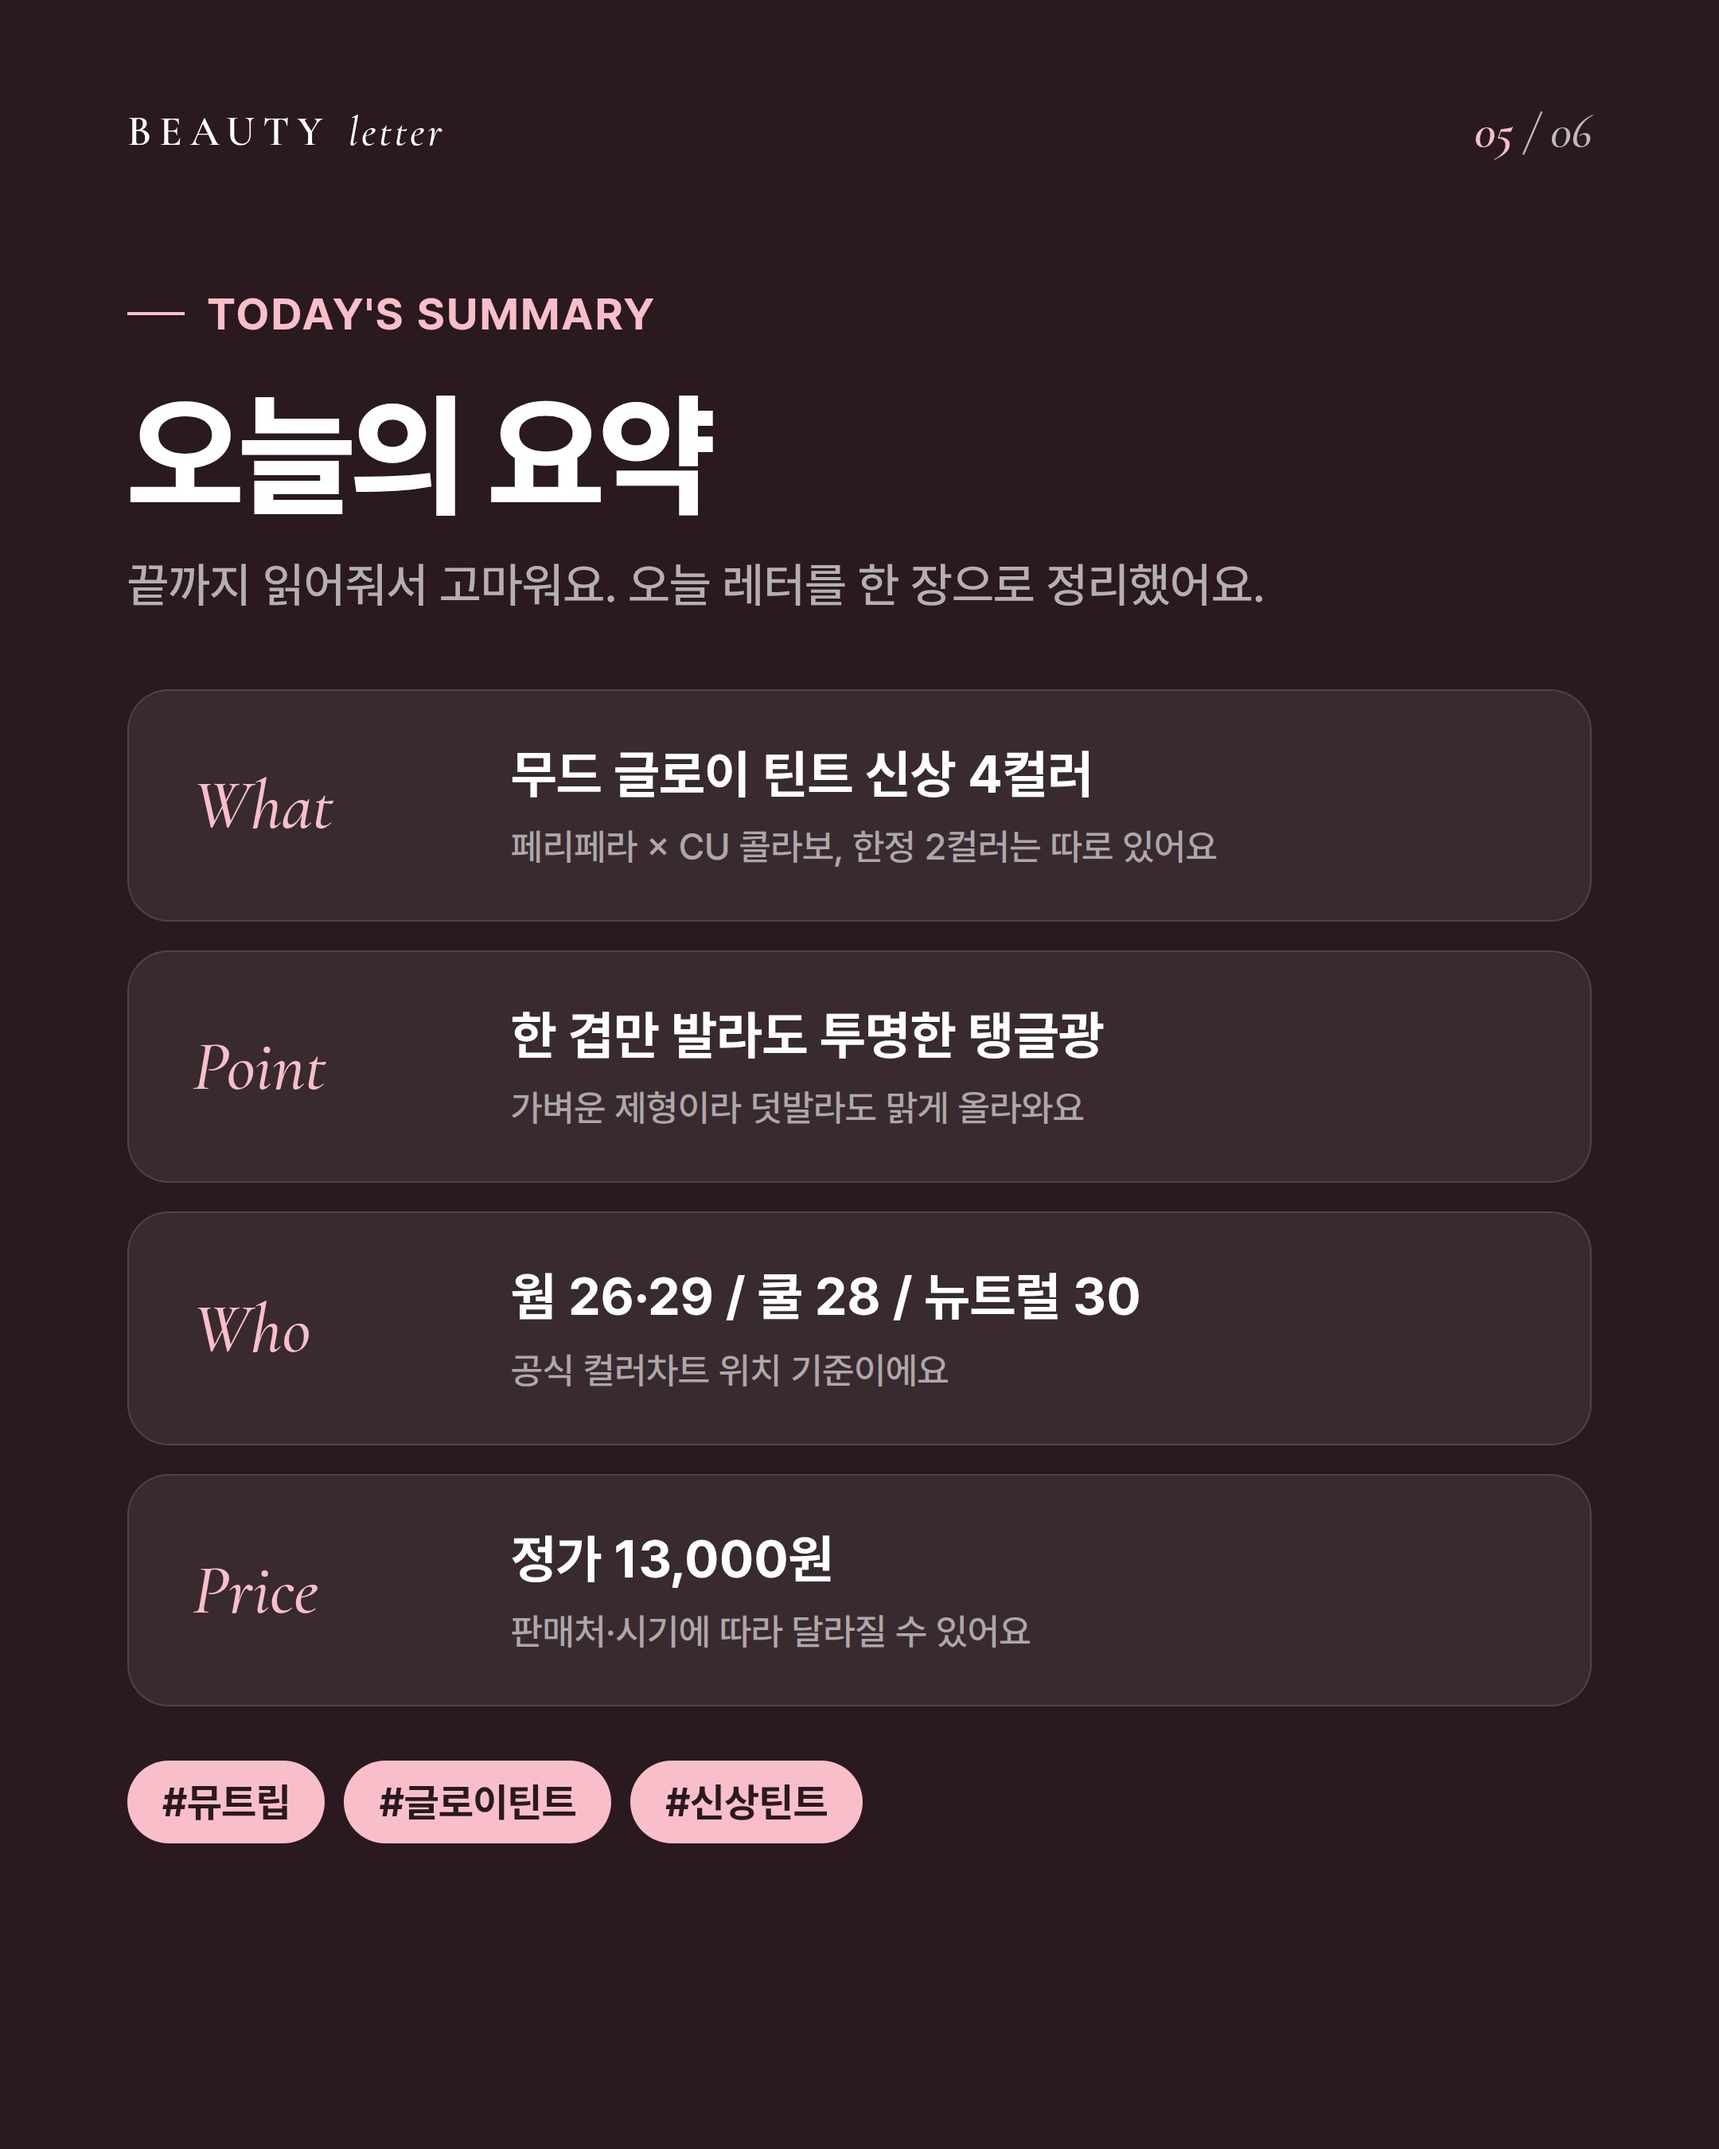
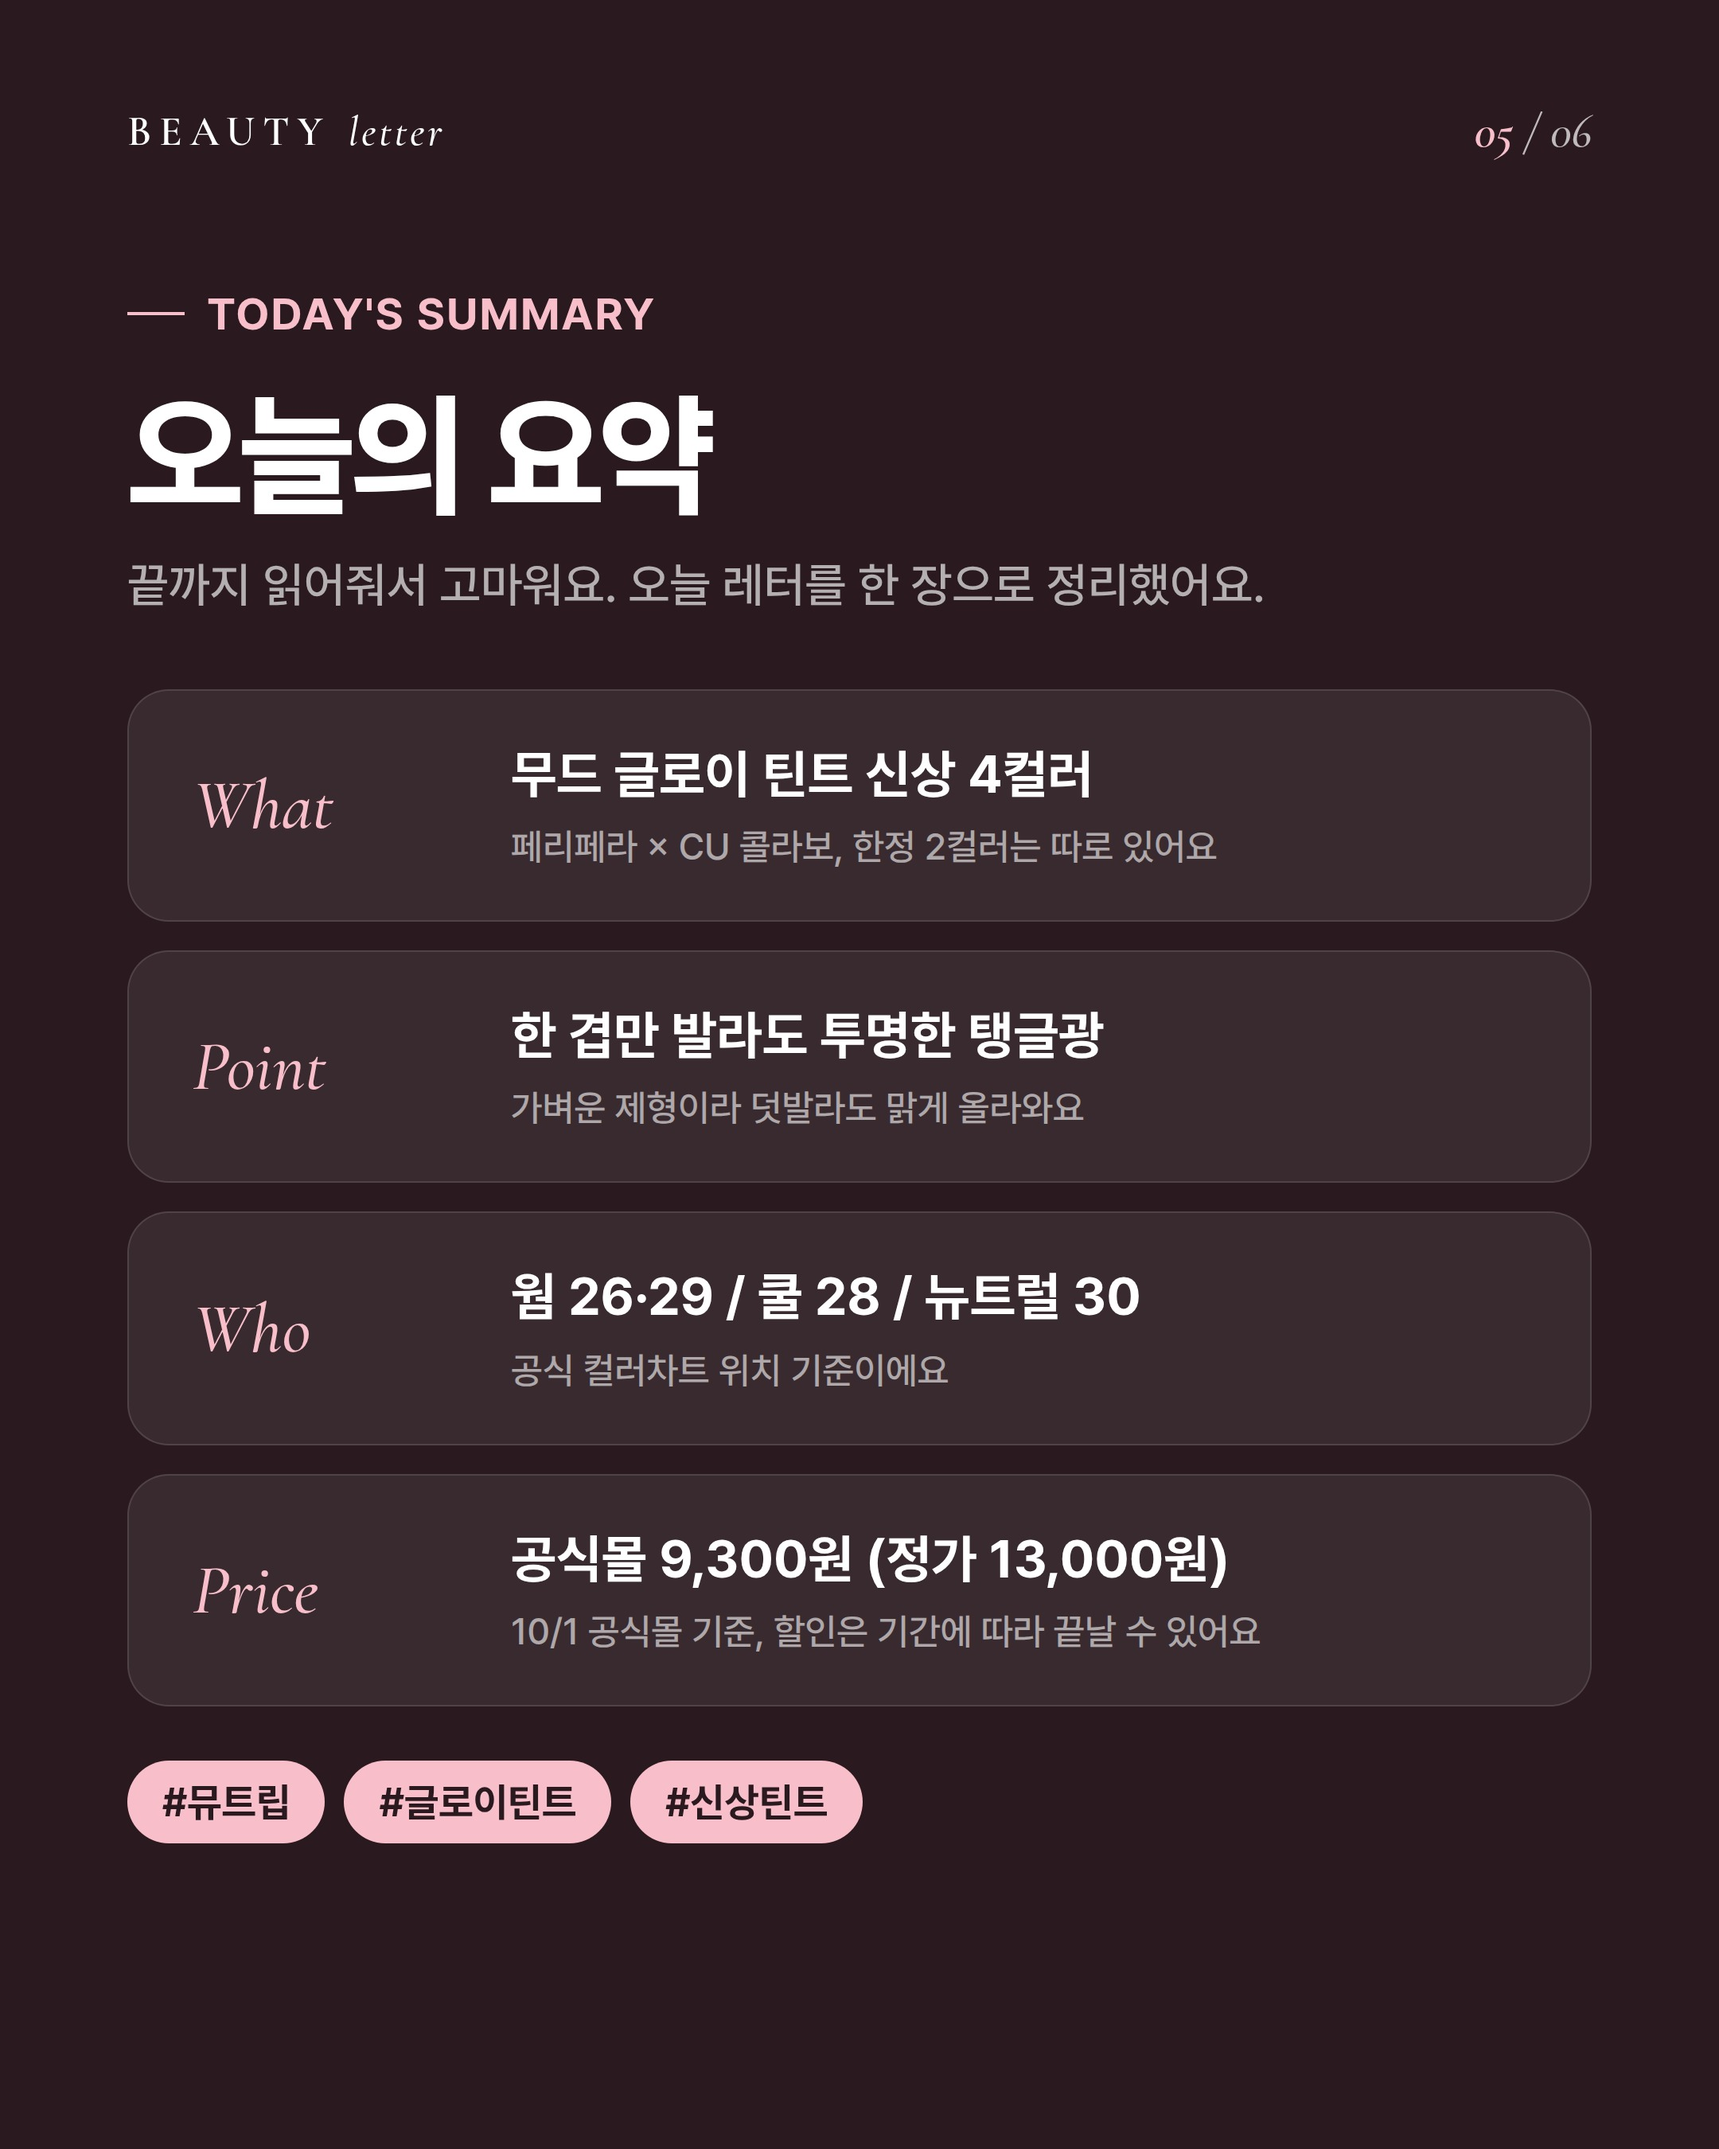
뷰티레터 틴트: 공식몰 할인가(9,300원, 10/1 기준) 표기 추가
Claude-Session: https://claude.ai/code/session_01M29FXMb16fvzM5BCrcufte

Changed region(s): [[0.2792, 0.7156, 0.7444, 0.7778]]

diff --git a/design/beauty_news/samples/2026-10_peripera_mood_glowy/slides.html b/design/beauty_news/samples/2026-10_peripera_mood_glowy/slides.html
@@ -63,7 +63,7 @@
     <div class="swatch"><div class="chip"><img src="img/lip_30.jpg" alt="" /></div><div class="no">30</div><div class="ko">드립 로즈</div><div class="desc">Drip rose</div></div>
   </div>
   <div class="spec-table">
-    <div class="spec-row"><span class="k rose">가격</span><span class="price">13,000원</span><span style="color:var(--mauve);font-size:24px">정가 기준</span></div>
+    <div class="spec-row"><span class="k rose">가격</span><span class="price">9,300원</span><span style="color:var(--mauve);font-size:24px;text-decoration:line-through">13,000원</span><span style="color:var(--mauve);font-size:22px">공식몰 28% 할인 (10/1 기준)</span></div>
     <div class="spec-row"><span class="k">컬러</span><span><b>신규 4종</b> + 한정 2종 (-01, -02)</span></div>
     <div class="spec-row"><span class="k">추천</span><span>차분한 <b>뮤트</b>는 26·28·29, <b>로지</b> 무드는 30</span></div>
   </div>
@@ -117,7 +117,7 @@
     <div class="row"><div class="q">What</div><div class="a">무드 글로이 틴트 신상 4컬러<small>페리페라 × CU 콜라보, 한정 2컬러는 따로 있어요</small></div></div>
     <div class="row"><div class="q">Point</div><div class="a">한 겹만 발라도 투명한 탱글광<small>가벼운 제형이라 덧발라도 맑게 올라와요</small></div></div>
     <div class="row"><div class="q">Who</div><div class="a">웜 26·29 / 쿨 28 / 뉴트럴 30<small>공식 컬러차트 위치 기준이에요</small></div></div>
-    <div class="row"><div class="q">Price</div><div class="a">정가 13,000원<small>판매처·시기에 따라 달라질 수 있어요</small></div></div>
+    <div class="row"><div class="q">Price</div><div class="a">공식몰 9,300원 (정가 13,000원)<small>10/1 공식몰 기준, 할인은 기간에 따라 끝날 수 있어요</small></div></div>
   </div>
   <div class="chips"><span>#뮤트립</span><span>#글로이틴트</span><span>#신상틴트</span></div>
 </section>

diff --git a/design/beauty_news/samples/2026-10_peripera_mood_glowy/sources.md b/design/beauty_news/samples/2026-10_peripera_mood_glowy/sources.md
@@ -3,7 +3,7 @@
 | 항목 | 출처 |
 |---|---|
 | 제품명·신규/한정 컬러·호수명·제형 설명·사용 팁 | 페리페라 공식몰(클럽클리오) 상품 상세페이지 https://clubclio.co.kr/shop/goodsView/0000007078 |
-| 정가 13,000원 | 같은 페이지 (당시 할인가 9,300원은 기간성이라 카드에 넣지 않음) |
+| 정가 13,000원, 할인가 9,300원(28%) | 같은 페이지, 2026-10-01 재확인. 클럽클리오 검색 결과 이 상품 1건뿐 (26,000원 2pack은 공식몰에서 확인 안 됨) |
 | img/product_cutout.png | 같은 페이지 상세 이미지(제품 컷)에서 rembg 누끼 |
 | img/lip_26·28·29·30.jpg | 같은 페이지 상세 이미지(컬러별 립 발색 컷) 크롭 |
 | img/texture.jpg | 같은 페이지 상세 이미지(제형 컷) 크롭 |
